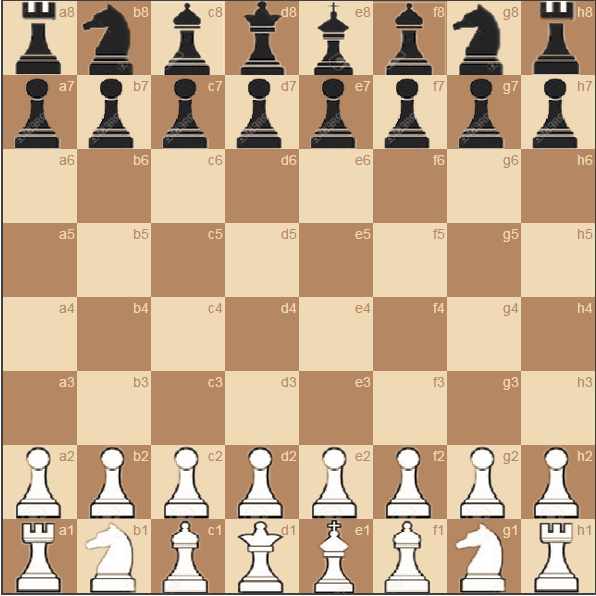
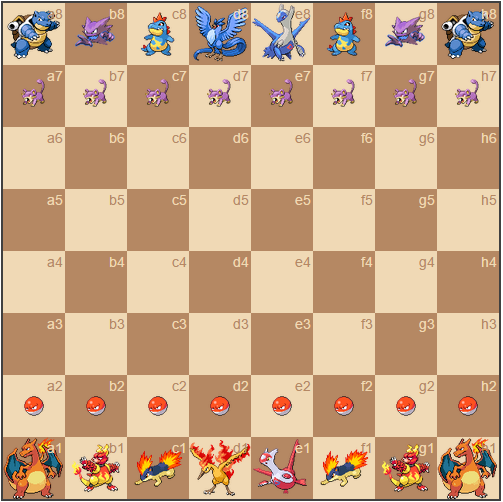
added pokemon theme. Fixed settings page buttons

diff --git a/client/pages/settings.js b/client/pages/settings.js
@@ -52,17 +52,32 @@ Template.setting.events({
 
     'click #theme1': function(event){
         var elem1 = document.getElementById("theme1");
+        var elem2 = document.getElementById("theme2");
+        var elem2 = document.getElementById("theme3");
+        var elem2 = document.getElementById("theme4");
 
         elem1.innerHTML = "<i class=\"glyphicon glyphicon-ok\"></i>";
-        elem2.innerHTML = "<i class=\"glyphicon glyphicon-remove i-w\"></i>";
-        elem3.innerHTML = "<i class=\"glyphicon glyphicon-remove i-w\"></i>";
-        elem4.innerHTML = "<i class=\"glyphicon glyphicon-remove i-w\"></i>";
+
+        elem2.innerHTML = "Select Theme";
+        elem3.innerHTML = "Select Theme";
+        elem4.innerHTML = "Select Theme";
+
         pieceTheme="a";
         themeOfPiece.remove(themeOfPiece.findOne()._id);
         themeOfPiece.insert({pieceTheme:pieceTheme});
         console.log(themeOfPiece.findOne());
     },    
     'click #theme2': function(event){
+
+        var elem1 = document.getElementById("theme1");
+        var elem2 = document.getElementById("theme2");
+        var elem3 = document.getElementById("theme3");
+        var elem4 = document.getElementById("theme4");
+
+        elem1.innerHTML = "Select Theme";
+        elem2.innerHTML = "<i class=\"glyphicon glyphicon-ok\"></i>";
+        elem3.innerHTML = "Select Theme";
+        elem4.innerHTML = "Select Theme";
 
         pieceTheme="b";
         themeOfPiece.remove(themeOfPiece.findOne()._id);
@@ -71,12 +86,33 @@ Template.setting.events({
     },
     'click #theme3': function(event){
 
+        var elem1 = document.getElementById("theme1");
+        var elem2 = document.getElementById("theme2");
+        var elem3 = document.getElementById("theme3");
+        var elem4 = document.getElementById("theme4");
+
+        elem1.innerHTML = "Select Theme";
+        elem2.innerHTML = "Select Theme";
+        elem3.innerHTML = "<i class=\"glyphicon glyphicon-ok\"></i>";
+        elem4.innerHTML = "Select Theme";
+
         pieceTheme="c";
         themeOfPiece.remove(themeOfPiece.findOne()._id);
         themeOfPiece.insert({pieceTheme:pieceTheme});
         console.log(themeOfPiece.findOne());
     },
     'click #theme4': function(event){
+
+        var elem1 = document.getElementById("theme1");
+        var elem2 = document.getElementById("theme2");
+        var elem3 = document.getElementById("theme3");
+        var elem4 = document.getElementById("theme4");
+
+        elem1.innerHTML = "Select Theme";
+        elem2.innerHTML = "Select Theme";
+        elem3.innerHTML = "Select Theme";
+        elem4.innerHTML = "<i class=\"glyphicon glyphicon-ok\"></i>";
+
         pieceTheme="d";
         themeOfPiece.remove(themeOfPiece.findOne()._id);
         themeOfPiece.insert({pieceTheme:pieceTheme});

diff --git a/client/pages/settings.html b/client/pages/settings.html
@@ -32,9 +32,9 @@
                             <div class="thumbnail">
                                 <img src="img/theme1.png" id="picture3" alt="..." width="200px" height = "200px">
                                 <div class="caption">
-                                    <h3>Secondary classic theme</h3>
+                                    <h3>Pokemon theme</h3>
                                     <p>
-                                        Another standard chess theme.
+                                        A theme made from the famous TV show Pokemon.
                                     </p>
                                     <p>
                                         <a  class="btn btn-primary" id= "theme2" role="button">Select Theme</a>
@@ -77,7 +77,7 @@
                                 <h3>Personalized Pieces</h3>
                                 <p>Upload your own pictures and use them on the chessboard as pieces!
                                 </p>
-                                <p><a  class="btn btn-primary" id= "theme4" role="button"><i class="glyphicon glyphicon-ok"></i></a></p>  
+                                 
                             </div>
                             </div>
                         </div>
@@ -100,6 +100,7 @@
                             </button>
                             <button type="button" class="btn btn-primary"  id="reset"> Reset
                             </button>
+                            <a  class="btn btn-primary" id= "theme4" role="button">Select Theme</a> 
                             <div id="personalpiece">
                                  <div class="col-sm-2 col-sm-2">
                                                 <div class="thumbnail">
